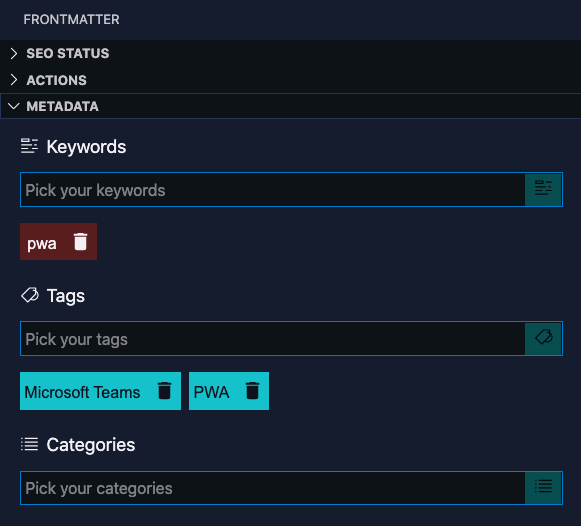
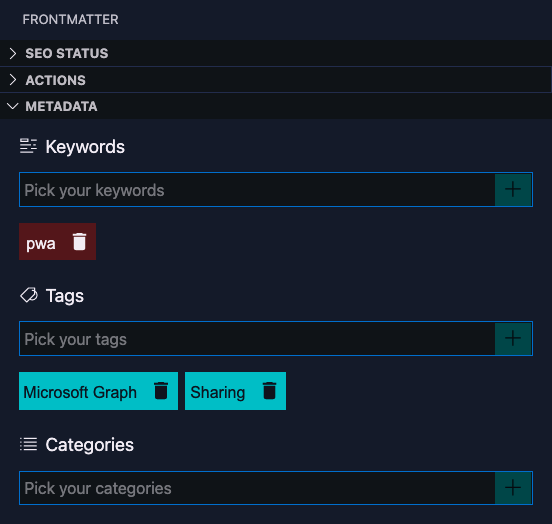
Combine the title, description and artilce length details

diff --git a/src/viewpanel/components/SeoStatus.tsx b/src/viewpanel/components/SeoStatus.tsx
@@ -3,7 +3,10 @@ import { SEO } from '../../models/PanelSettings';
 import { ArticleDetails } from './ArticleDetails';
 import { Collapsible } from './Collapsible';
 import { SeoDetails } from './SeoDetails';
+import { SeoFieldInfo } from './SeoFieldInfo';
 import { SeoKeywords } from './SeoKeywords';
+import { ValidInfo } from './ValidInfo';
+import { VsTable, VsTableBody, VsTableCell, VsTableHeader, VsTableHeaderCell, VsTableRow } from './VscodeComponents';
 
 export interface ISeoStatusProps {
   seo: SEO;
@@ -28,19 +31,37 @@ export const SeoStatus: React.FunctionComponent<ISeoStatusProps> = (props: React
 
     return (
       <div>
-        { (title && seo.title > 0) && <SeoDetails title="Title" valueTitle="Length" allowedLength={seo.title} value={title.length} /> }
-        
-        { (data[descriptionField] && seo.description > 0) && <SeoDetails title="Description" valueTitle="Length" allowedLength={seo.description} value={data[descriptionField].length} /> }
+        <div className={`seo__status__details`}>
+          <h4>Recommendations</h4>
 
-        {
-          seo.content > 0 && data?.articleDetails?.wordCount && (
-            <SeoDetails title="Article length" 
-                        valueTitle="Words" 
-                        allowedLength={seo.content} 
-                        value={data?.articleDetails?.wordCount}
-                        noValidation />
-          )
-        }
+          <VsTable bordered>
+            <VsTableHeader slot="header">
+              <VsTableHeaderCell className={`table__cell`}>Property</VsTableHeaderCell>
+              <VsTableHeaderCell className={`table__cell`}>Length</VsTableHeaderCell>
+              <VsTableHeaderCell className={`table__cell`}>Recommended</VsTableHeaderCell>
+              <VsTableHeaderCell className={`table__cell`}>Valid</VsTableHeaderCell>
+            </VsTableHeader>
+            <VsTableBody slot="body">
+              { 
+                (title && seo.title > 0) && (
+                  <SeoFieldInfo title={`title`} value={`${title.length} chars`} recommendation={`${seo.title} chars`} isValid={title.length <= seo.title} />
+                )
+              }
+
+              {
+                (data[descriptionField] && seo.description > 0) && (
+                  <SeoFieldInfo title={descriptionField} value={`${data[descriptionField].length} chars`} recommendation={`${seo.description} chars`} isValid={data[descriptionField].length <= seo.description} />
+                )
+              }
+
+              {
+                (seo.content > 0 && data?.articleDetails?.wordCount) && (
+                  <SeoFieldInfo title={`Article length`} value={`${data?.articleDetails?.wordCount} words`} recommendation={`${seo.content} words`} />
+                )
+              }
+            </VsTableBody>
+          </VsTable>
+        </div>
 
         <SeoKeywords keywords={data?.keywords}
                      title={title} 

diff --git a/src/viewpanel/components/SeoFieldInfo.tsx b/src/viewpanel/components/SeoFieldInfo.tsx
@@ -1,0 +1,23 @@
+import * as React from 'react';
+import { ValidInfo } from './ValidInfo';
+import { VsTableCell, VsTableRow } from './VscodeComponents';
+
+export interface ISeoFieldInfoProps {
+  title: string;
+  value: any;
+  recommendation: any;
+  isValid?: boolean;
+}
+
+export const SeoFieldInfo: React.FunctionComponent<ISeoFieldInfoProps> = ({ title, value, recommendation, isValid }: React.PropsWithChildren<ISeoFieldInfoProps>) => {
+  return (
+    <VsTableRow>
+      <VsTableCell className={`table__cell table__title`}>{title}</VsTableCell>
+      <VsTableCell className={`table__cell`}>{value}</VsTableCell>
+      <VsTableCell className={`table__cell`}>{recommendation}</VsTableCell>
+      <VsTableCell className={`table__cell table__cell__validation`}>
+        { isValid !== undefined ? <ValidInfo isValid={isValid} /> : <span>-</span> }
+      </VsTableCell>
+    </VsTableRow>
+  );
+};

diff --git a/src/viewpanel/components/TagPicker.tsx b/src/viewpanel/components/TagPicker.tsx
@@ -5,6 +5,7 @@ import { CommandToCode } from '../CommandToCode';
 import { TagType } from '../TagType';
 import { MessageHelper } from '../helper/MessageHelper';
 import Downshift from 'downshift';
+import { AddIcon } from './Icons/AddIcon';
 
 export interface ITagPickerProps {
   type: string;
@@ -165,7 +166,7 @@ export const TagPicker: React.FunctionComponent<ITagPickerProps> = (props: React
                             title={`Add the unknown tag`}
                             disabled={!inputValue} 
                             onClick={() => insertUnkownTag(closeMenu)}>
-                      {icon}
+                      <AddIcon />
                     </button>
                   )
                 }

diff --git a/src/viewpanel/components/Icons/ArchiveIcon.tsx b/src/viewpanel/components/Icons/ArchiveIcon.tsx
@@ -1,0 +1,9 @@
+import * as React from 'react';
+
+export interface IArchiveIconProps {}
+
+export const ArchiveIcon: React.FunctionComponent<IArchiveIconProps> = (props: React.PropsWithChildren<IArchiveIconProps>) => {
+  return (
+    <svg width="16" height="16" viewBox="0 0 16 16" xmlns="http://www.w3.org/2000/svg" fill="currentColor"><path fillRule="evenodd" clipRule="evenodd" d="M14.5 1h-13l-.5.5v3l.5.5H2v8.5l.5.5h11l.5-.5V5h.5l.5-.5v-3l-.5-.5zm-1 3H2V2h12v2h-.5zM3 13V5h10v8H3zm8-6H5v1h6V7z"/></svg>
+  );
+};

diff --git a/src/viewpanel/components/Icons/AddIcon.tsx b/src/viewpanel/components/Icons/AddIcon.tsx
@@ -1,0 +1,9 @@
+import * as React from 'react';
+
+export interface IAddIconProps {}
+
+export const AddIcon: React.FunctionComponent<IAddIconProps> = (props: React.PropsWithChildren<IAddIconProps>) => {
+  return (
+    <svg width="16" height="16" viewBox="0 0 16 16" xmlns="http://www.w3.org/2000/svg" fill="currentColor"><path d="M14 7v1H8v6H7V8H1V7h6V1h1v6h6z"/></svg>
+  );
+};

diff --git a/assets/media/styles.css b/assets/media/styles.css
@@ -153,6 +153,9 @@
   width: 30px;
   padding-bottom: 2px; 
   padding-top: 2px;
+  display: inline-flex;
+  align-items: center;
+  justify-content: center;
 }
 
 .article__tags ul {
@@ -287,6 +290,10 @@
 
 .table__cell {
   overflow: hidden;
+}
+
+.table__title {
+  text-transform: capitalize;
 }
 
 .table__cell__validation {

diff --git a/README.md b/README.md
@@ -26,6 +26,10 @@ The extension will automatically verify if your title and description are SEO co
 
 > If you see something missing in your article creation flow, please feel free to reach out.
 
+**Version 2**
+
+In version two we released the new redesigned sidebar panel with improved SEO support.
+
 <h2 id="table-of-contents">Table of Contents</h2>
 
 <details open="open">

diff --git a/CHANGELOG.md b/CHANGELOG.md
@@ -1,7 +1,8 @@
 # Change Log
 
-## [1.19.0] - 2020-07-22
+## [2.0.0] - 2020-07-23
 
+- Redesigned sidebar panel
 - Sidebar background styling match the VSCode defined sidebar color
 - Added support for `mdx` files
 - Added support for `enter` press in the combobox
